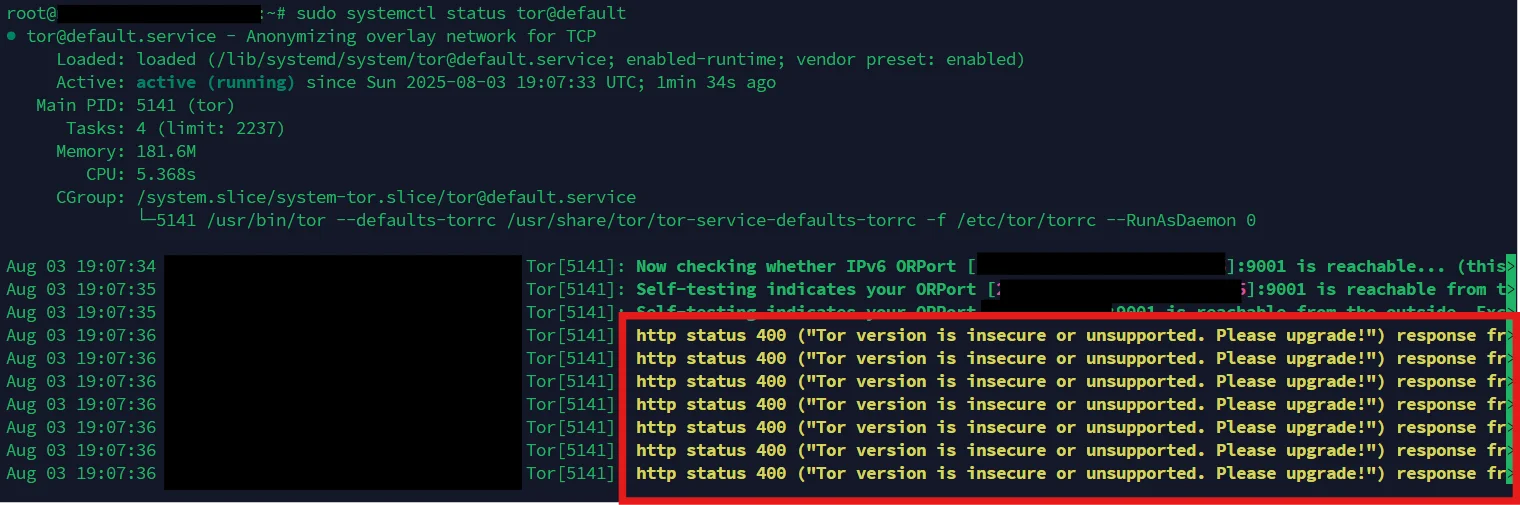
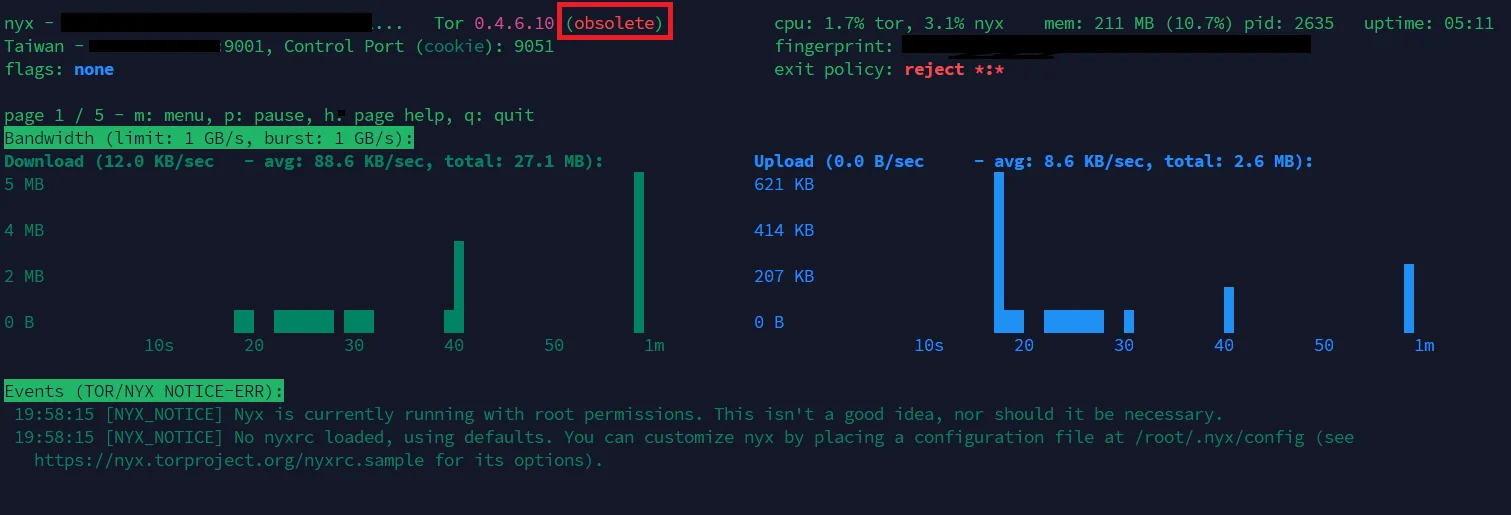
edit post

diff --git a/source/_posts/tor-relay.md b/source/_posts/tor-relay.md
@@ -226,9 +226,46 @@ Bridge obfs4 193.57.136.119:443 922FC5AF7C91143E6B8FA3420F732FC63374A32B cert=pB
 ## FAQ
 ### Tor 版本過舊
 當你使用 Ubuntu 用 APT 下載 Tor 時，有時候會遇到 Tor 版本過舊而不被網路接納的問題
-你可以使用
+你可以等待節點運行一段時間後使用
 ```bash
-sudo systemctl status tor@default
+sudo nyx
 ```
-來查看，如果出現 **"Tor version is insecure or unsupported. Please upgrade!"** 這類訊息，就代表你的 Tor 版本過舊，可以參考[此文章](https://www.reddit.com/r/TOR/comments/vsc73q/i_heard_the_ubuntu_package_is_outdated_is_this/)
+如果出現 **obsolete** 標記，就代表你的 Tor 版本過舊，可以參考以下步驟(以 Ubuntu 22.04 舉例)
 ![alt text](images/20250801/image-3.webp)
+
+先移除舊版 Tor
+```bash
+sudo apt remove tor tor-geoipdb
+sudo apt autoremove
+```
+修改設定檔
+```bash
+sudo vim /etc/tor/torrc
+```
+把 `SocksPort` 改成 **9050**
+
+安裝套件
+```bash
+sudo apt update
+sudo apt install apt-transport-https curl gnupg
+```
+匯入官方公鑰
+```bash
+curl -fsSL https://deb.torproject.org/torproject.org/A3C4F0F979CAA22CDBA8F512EE8CBC9E886DDD89.asc | gpg --dearmor | sudo tee /usr/share/keyrings/deb.torproject.org-keyring.gpg > /dev/null
+```
+新增官方 Tor 軟體庫
+```bash
+echo "deb [signed-by=/usr/share/keyrings/deb.torproject.org-keyring.gpg] https://deb.torproject.org/torproject.org jammy main" | sudo tee /etc/apt/sources.list.d/tor.list
+```
+安裝最新版 Tor
+```bash
+sudo apt update
+sudo apt install tor deb.torproject.org-keyring
+```
+重啟 Tor
+```bash
+sudo systemctl restart tor@default
+sudo nyx
+```
+出現 **recommended** 標記就代表更新成功了
+![alt text](images/20250801/image-4.webp)
